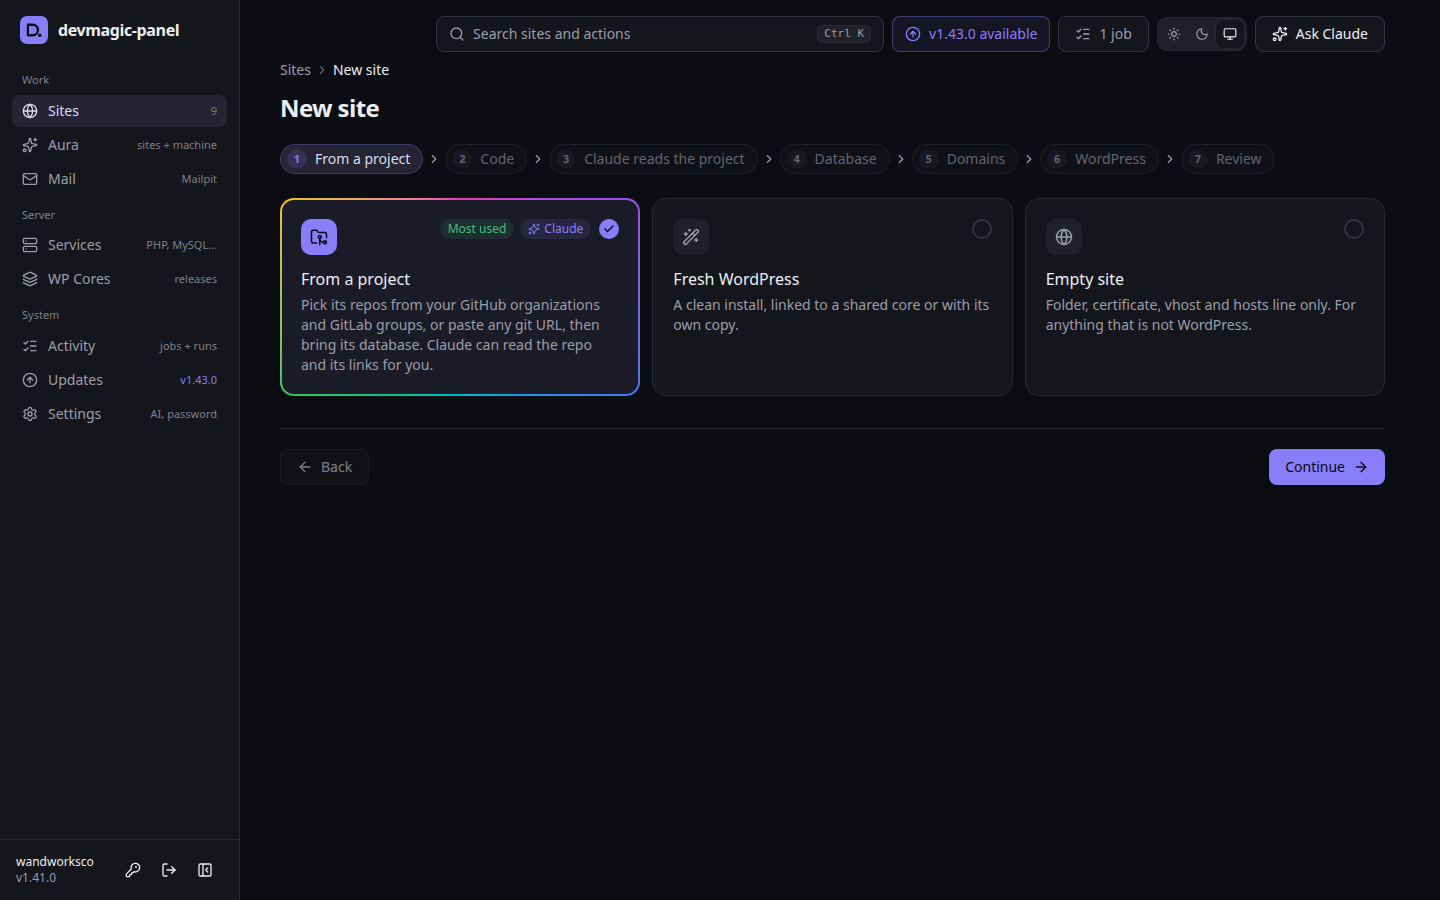
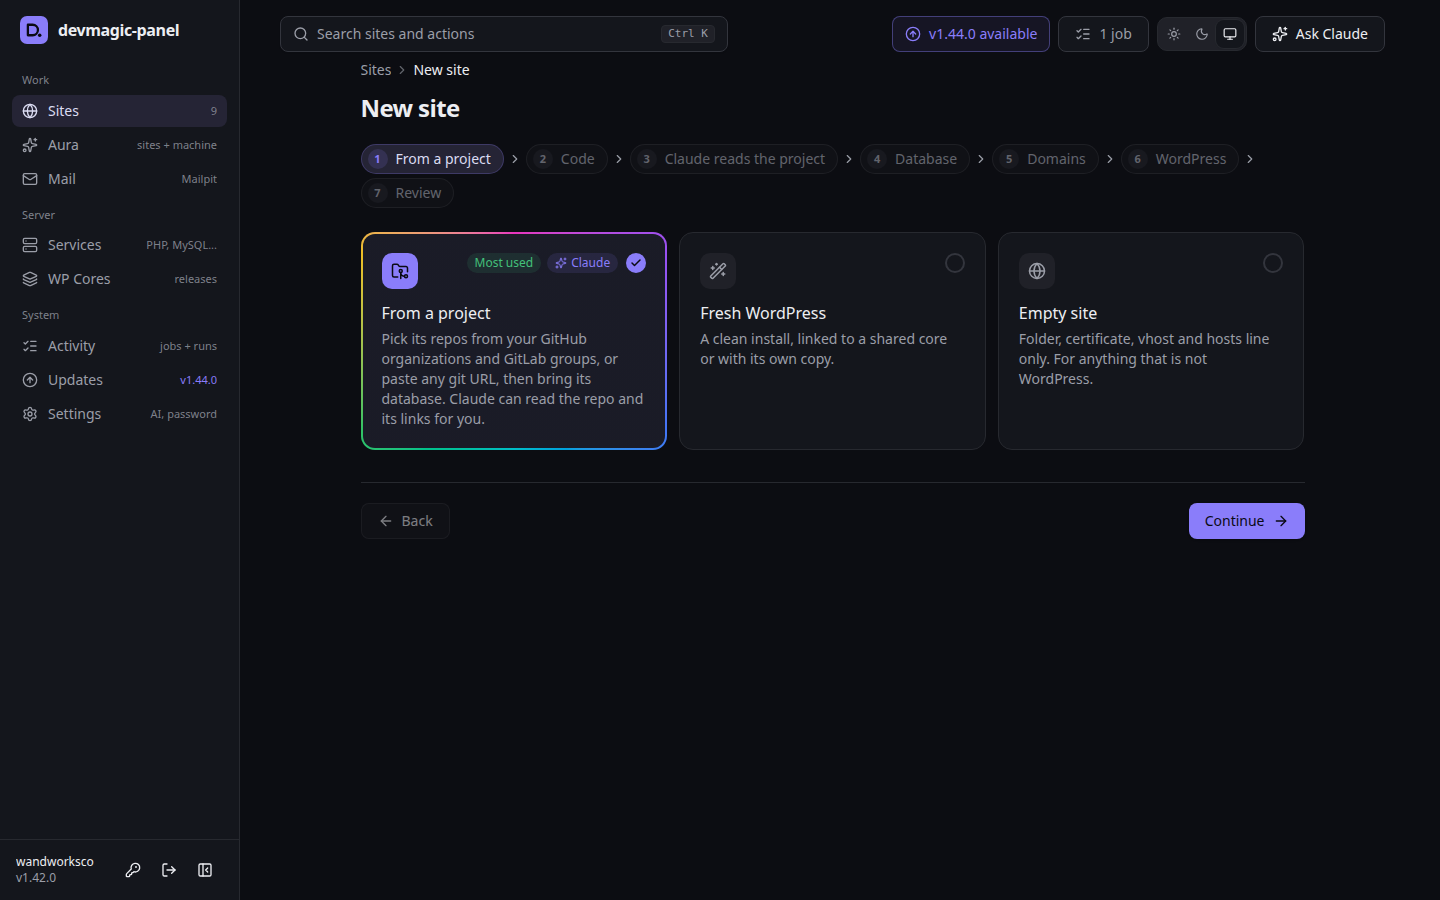
fix(web): keep every page at one width up to 1600px with the sites list three cards per row, and settings and flows narrow; docs: refresh the screenshots and the control inventory; chore: bump version to 1.42.0

diff --git a/web/src/lib/page-width.ts b/web/src/lib/page-width.ts
@@ -1,24 +1,20 @@
 /**
- * How wide a page's content runs, by its type (ui-ux.mdc, One layout per page type): lists and
- * grids of like items take a wide screen and add columns, a detail page with its side menu stops
- * at about 1600px so its cards stay in pairs, and settings and flows stay narrow enough to read.
- * The top bar always runs the whole width.
+ * How wide a page's content runs, by its type (ui-ux.mdc, One layout per page type): every page
+ * stops at about 1600px (the Sites list, a site, Activity, Services, WP Cores), and settings and
+ * flows stay narrow enough to read. The top bar always runs the whole width.
  */
-export type PageWidth = 'wide' | 'detail' | 'narrow';
+export type PageWidth = 'page' | 'narrow';
 
-const WIDE = new Set(['/sites', '/services', '/activity', '/activity/runs', '/cores']);
 const NARROW = new Set(['/settings', '/update']);
 
 export function pageWidth(path: string): PageWidth {
   const clean = path.length > 1 ? path.replace(/\/+$/, '') : path;
-  if (WIDE.has(clean)) return 'wide';
   if (NARROW.has(clean) || clean === '/sites/new' || clean.startsWith('/sites/new/')) return 'narrow';
-  return 'detail';
+  return 'page';
 }
 
-/** The main column's cap for each width: 120rem, 100rem and 64rem. */
+/** The main column's cap for each width: 100rem and 64rem. */
 export const PAGE_MAX_WIDTH: Record<PageWidth, string> = {
-  wide: 'max-w-[120rem]',
-  detail: 'max-w-[100rem]',
+  page: 'max-w-[100rem]',
   narrow: 'max-w-5xl',
 };

diff --git a/web/test/page-width.test.ts b/web/test/page-width.test.ts
@@ -2,15 +2,11 @@ import { describe, expect, it } from 'vitest';
 import { pageWidth } from '../src/lib/page-width.js';
 
 describe('pageWidth', () => {
-  it('lets lists of like items run wide', () => {
-    for (const path of ['/sites', '/sites/', '/services', '/activity', '/activity/runs', '/cores']) expect(pageWidth(path)).toBe('wide');
-  });
-
   it('keeps settings, the update and the new site wizard narrow', () => {
     for (const path of ['/settings', '/update', '/sites/new', '/sites/new/abc123/domains']) expect(pageWidth(path)).toBe('narrow');
   });
 
-  it('gives a site, a job, a section of services and the rest the detail width', () => {
-    for (const path of ['/sites/local.spellbook.example', '/sites/local.spellbook.example/learn', '/services/php', '/jobs/42', '/aura', '/mail', '/']) expect(pageWidth(path)).toBe('detail');
+  it('gives every other page one width: the sites, a site, a job, activity, services and the rest', () => {
+    for (const path of ['/sites', '/sites/', '/sites/local.spellbook.example', '/sites/local.spellbook.example/learn', '/services', '/services/php', '/activity', '/activity/runs', '/cores', '/jobs/42', '/aura', '/mail', '/']) expect(pageWidth(path)).toBe('page');
   });
 });

diff --git a/web/src/pages/services.tsx b/web/src/pages/services.tsx
@@ -87,7 +87,7 @@ function ServicesOverview({ refresh, onLoading }: { refresh: number; onLoading: 
       {!report && loading && <CardsSkeleton reading="Checking services..." cards={[3, 3, 3, 3, 3, 3]} />}
 
       {report && (
-        <div className="grid grid-cols-[minmax(0,1fr)] gap-4 @2xl:grid-cols-2 @min-[96rem]:grid-cols-3">
+        <div className="grid grid-cols-[minmax(0,1fr)] gap-4 @2xl:grid-cols-2">
           {report.services.map((s) => {
             const link = SERVICE_LINK[s.id];
             return (

diff --git a/web/src/pages/sites.tsx b/web/src/pages/sites.tsx
@@ -182,7 +182,7 @@ export function SitesPage() {
         />
       )}
       {filter !== 'removed' && shown.length > 0 && view === 'grid' && (
-        <div className="mt-5 grid grid-cols-[minmax(0,1fr)] gap-4 @4xl:grid-cols-2 @min-[96rem]:grid-cols-3 @min-[110rem]:grid-cols-4">
+        <div className="mt-5 grid grid-cols-[minmax(0,1fr)] gap-4 @4xl:grid-cols-2 @min-[90rem]:grid-cols-3">
           {shown.map((site) => <SiteCard key={siteName(site)} site={site} />)}
         </div>
       )}

diff --git a/CHANGELOG.md b/CHANGELOG.md
@@ -1,5 +1,12 @@
 # Changelog
 
+### v1.42.0 (2026-11-13)
+* **Look:** the top bar runs the whole width, with the search on the left and what changes while you work on the right. Pages run up to 1600px, the Sites list with three site cards per row from about 1440px of content, and Settings, Update and the new site wizard stay narrow enough to read
+* **Sites:** the side menu sits in a frame like the cards, each section with its icon and a little taller; the open view under a section is marked in darker text only. The tiles fill their row. Git takes the first row across, its recent commits beside the branch, and the cards below come in pairs of a kind, each pair as tall as each other. The Database's Overview and Backups and tools do the same, Import a database and Search and replace across their row, and a view's note sits on one line with Check again
+* **SSH:** a server's password can be saved in the panel for that host, in `secrets.json` (readable by you only). It is never shown back: the field says one is saved, empty uses it, a new one replaces it, and **Forget password** removes it. A run that starts without a typed password uses it, a Retry too. How a server signs you in is asked when you type a host or press **Check connection**, not when you open a view, and the answer is kept for an hour
+* **Plugins:** plugins and themes with an update WordPress already found have **Update to** on their row and **Update all** above the list, with **Snapshot the database first** ticked. Each is updated from WordPress.org with WP-CLI, one at a time; its folder is kept in the Files tab's file trash first, so **Undo** puts the version from before back, and one that fails or does not match WordPress.org's checksums is put back at once. The Overview's updates count opens the list on them
+* Nothing changes in the root scripts. An update installs this release from the panel as usual
+
 ### v1.41.0 (2026-11-12)
 * **Sites:** the open section's own views (the Database's Overview, Tables, SQL and Backups and tools; Plugins and Themes; Browse and Uploads from production) are listed under it in the side menu, which stays in view as you scroll, and the breadcrumbs name the view. On a narrower screen they stay small tabs
 * **Sites:** the cards of a site's sections lay out by the room next to the side menu, not by the window: one column until there is room for two, so no card is squeezed. The Files card keeps the folder on one line, and Quick actions fits its buttons

diff --git a/README.md b/README.md
@@ -1,6 +1,6 @@
 # DevMagic Panel - Local WordPress Control Panel
 
-![Version](https://img.shields.io/badge/version-1.41.0-6d5dfc)
+![Version](https://img.shields.io/badge/version-1.42.0-6d5dfc)
 [![License](https://img.shields.io/badge/License-MIT-blue)](LICENSE)
 [![Node](https://img.shields.io/badge/node-22.13%2B-339933)](#-requirements)
 [![Ubuntu and Debian](https://img.shields.io/badge/Ubuntu%20%7C%20Debian-supported-e95420)](#-requirements)
